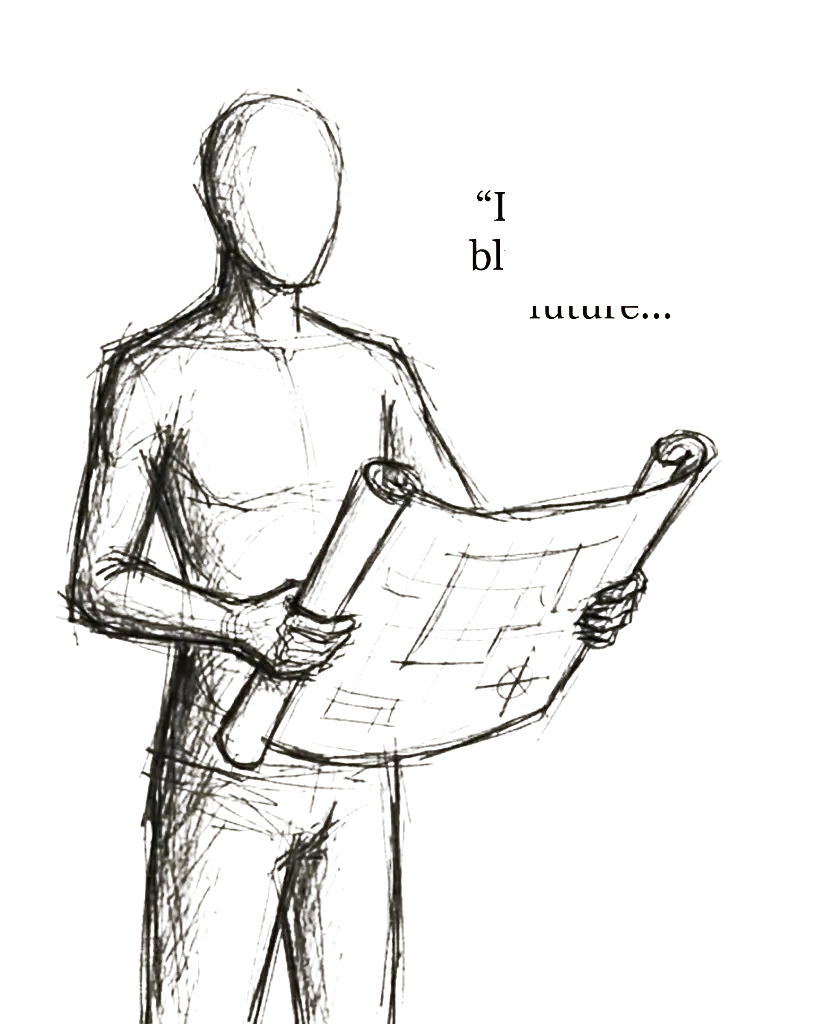
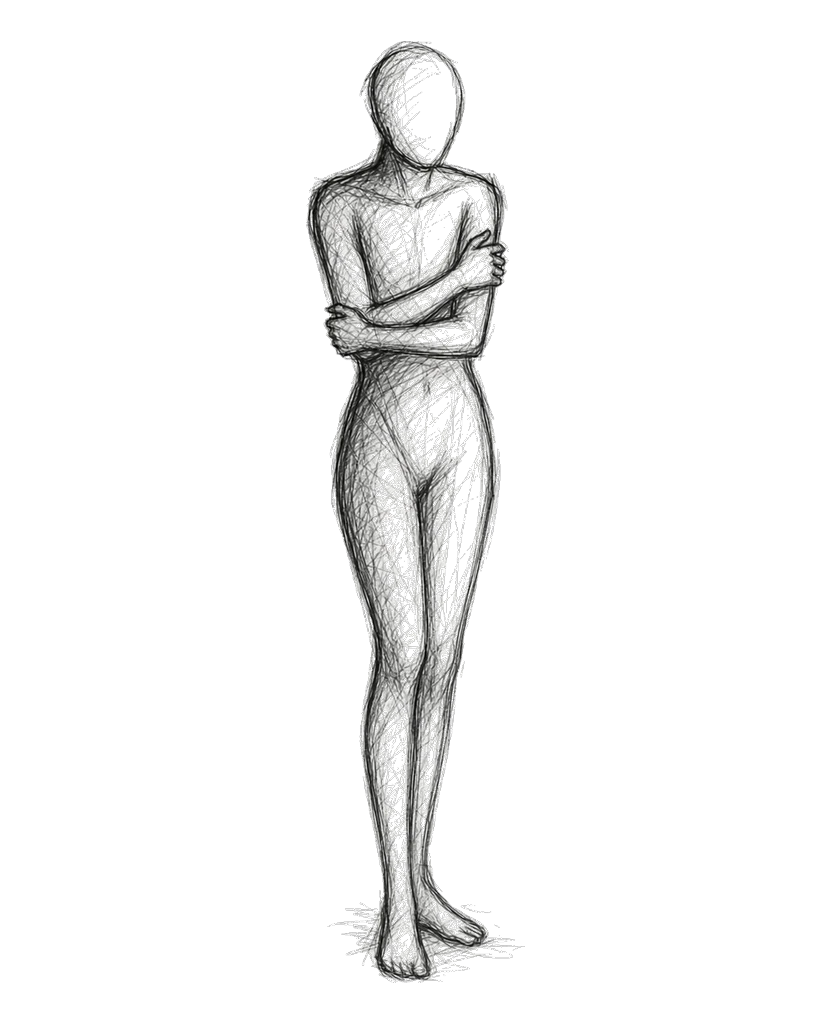
Couples post-pair UX: what-happens-next card, fixed ISLE figure, Resend Couples Report button

Changed region(s): [[0.0625, 0.0312, 0.875, 1.0], [0.6562, 0.2812, 0.7812, 0.3125]]

diff --git a/index.html b/index.html
@@ -866,6 +866,97 @@ body.in-synthesis .topnav { display: none; }
     display: block;
   }
 }
+/* What-happens-next card on the couples synthesis page — makes it clear
+   that the deeper Counselor walkthrough PDF is on its way by email. */
+.synthesis-overview-label {
+  font-size: 11px;
+  letter-spacing: 0.18em;
+  text-transform: uppercase;
+  color: var(--muted);
+  font-weight: 600;
+  margin-bottom: 10px;
+  text-align: center;
+}
+.synthesis-overview-cards {
+  display: flex;
+  gap: 20px;
+  flex-wrap: wrap;
+  justify-content: center;
+}
+.synthesis-overview-note {
+  margin-top: 14px;
+  text-align: center;
+  font-size: 14px;
+  color: var(--muted);
+  max-width: 640px;
+  margin-left: auto;
+  margin-right: auto;
+  line-height: 1.55;
+}
+.next-steps-card {
+  background: var(--paper);
+  border: 1px solid var(--accent);
+  border-radius: 10px;
+  padding: 28px 28px;
+  margin: 36px auto 28px;
+  max-width: 880px;
+}
+.next-steps-eyebrow {
+  font-size: 11px;
+  letter-spacing: 0.22em;
+  text-transform: uppercase;
+  color: var(--accent);
+  font-weight: 600;
+  margin-bottom: 6px;
+}
+.next-steps-title {
+  font-family: 'Fraunces', Georgia, serif;
+  font-size: 26px;
+  font-weight: 500;
+  margin: 0 0 12px 0;
+  line-height: 1.15;
+}
+.next-steps-lead {
+  font-size: 16px;
+  line-height: 1.55;
+  margin: 0 0 22px 0;
+}
+.next-steps-grid {
+  display: grid;
+  grid-template-columns: repeat(auto-fit, minmax(220px, 1fr));
+  gap: 18px;
+}
+.next-steps-item {
+  background: #ffffff;
+  border: 1px solid var(--rule);
+  border-radius: 6px;
+  padding: 16px 18px;
+}
+.next-steps-item-eyebrow {
+  font-size: 10px;
+  letter-spacing: 0.2em;
+  text-transform: uppercase;
+  color: var(--accent);
+  font-weight: 600;
+  margin-bottom: 6px;
+}
+.next-steps-item p {
+  font-size: 13.5px;
+  line-height: 1.55;
+  margin: 0;
+}
+.next-steps-footer {
+  margin: 40px auto 20px;
+  max-width: 880px;
+  padding: 18px 22px;
+  background: var(--highlight, #ece4d3);
+  border-left: 3px solid var(--accent);
+  font-size: 14px;
+  line-height: 1.55;
+}
+.next-steps-footer a { color: var(--accent); }
+.next-steps-footer strong { color: var(--accent); }
+
 .figure-inline-sm {
   float: right;
   width: 110px;
@@ -1279,7 +1370,7 @@ body.in-synthesis .topnav { display: none; }
       <li><a href="how-it-works.html">How It Works</a></li>
       <li><a href="imago/" class="hide-mobile">IMAGO</a></li>
       <li><a href="for-churches.html">For Churches</a></li>
-      <li><a href="sign-in.html" class="cta" id="navSignIn">Sign In</a></li>
+      <li><a href="sign-in.html" class="cta">Sign In</a></li>
     </ul>
   </div>
 </nav>
@@ -4088,9 +4179,6 @@ function showResults() {
         <input type="email" class="email-input" id="emailInput" placeholder="[email redacted]" autocomplete="email">
         <button class="btn btn-primary" onclick="submitResultsToBackend()" id="emailSendBtn">Email My Report</button>
       </div>
-      <div id="emailResendWrap" style="display:none;text-align:center;margin-top:0.75rem;font-size:0.85rem;">
-        <a href="#" onclick="resendToDifferentEmail(event)" style="color:var(--muted);text-decoration:underline;cursor:pointer;">Send a copy to a different email address</a>
-      </div>
       <div class="email-status" id="emailStatus"></div>
     </div>
 
@@ -4351,15 +4439,6 @@ async function submitResultsToBackend(opts = {}) {
         statusEl.className = 'email-status ok';
       }
     }
-    // Prevent accidental duplicate sends. The button locks to "Sent ✓" until
-    // the user explicitly opts into sending to a different address.
-    if (!silent && btn) {
-      btn.disabled = true;
-      btn.textContent = `Sent ✓ to ${email}`;
-      btn.dataset.locked = 'true';
-      const resendWrap = document.getElementById('emailResendWrap');
-      if (resendWrap) resendWrap.style.display = 'block';
-    }
   } catch (err) {
     if (!silent && statusEl) {
       // Show the backend's actual message when available so users get useful info
@@ -4372,40 +4451,8 @@ async function submitResultsToBackend(opts = {}) {
     }
     console.error('submit error', err);
   } finally {
-    // Only re-enable the button if we did NOT just successfully send — the
-    // success path locks the button itself with "Sent ✓" so users don't fire
-    // a second send by accident. Errors still reset to allow retry.
-    if (!silent && btn && btn.dataset.locked !== 'true') {
-      btn.disabled = false;
-      btn.textContent = 'Email My Report';
-    }
+    if (!silent && btn) { btn.disabled = false; btn.textContent = 'Email My Report'; }
   }
-}
-
-// Allow user to opt into a second send to a different address.
-// Shows a soft confirm so accidental clicks don't fire another email.
-function resendToDifferentEmail(ev) {
-  if (ev && ev.preventDefault) ev.preventDefault();
-  const btn = document.getElementById('emailSendBtn');
-  const emailInput = document.getElementById('emailInput');
-  const statusEl = document.getElementById('emailStatus');
-  const ok = window.confirm('Send your report to a different email address?\n\nClear the email field and type the new address, then click "Email My Report".');
-  if (!ok) return;
-  if (emailInput) {
-    emailInput.value = '';
-    emailInput.focus();
-  }
-  if (statusEl) {
-    statusEl.textContent = '';
-    statusEl.className = 'email-status';
-  }
-  if (btn) {
-    btn.disabled = false;
-    btn.textContent = 'Email My Report';
-    btn.dataset.locked = 'false';
-  }
-  const resendWrap = document.getElementById('emailResendWrap');
-  if (resendWrap) resendWrap.style.display = 'none';
 }
 
 function startOver() {
@@ -5123,37 +5170,6 @@ function startOver() {
   window.scrollTo({top: 0, behavior: 'instant'});
 }
 
-</script>
-<script>
-// ==================== SIGN-IN STATUS INDICATOR ====================
-// If the user has a saved session token, swap the "Sign In" nav link
-// for a "Your dashboard" link. Validation happens on /auth/me; if the
-// stored token is bad we silently clear it and keep the Sign In link.
-(function() {
-  var navEl = document.getElementById('navSignIn');
-  if (!navEl) return;
-  var token = localStorage.getItem('t139_session_token') || sessionStorage.getItem('t139_session_token') || '';
-  if (!token) return;
-  // Optimistically swap; verification is a low-priority background call.
-  var email = localStorage.getItem('t139_session_email') || sessionStorage.getItem('t139_session_email') || '';
-  navEl.textContent = email ? 'My dashboard' : 'My dashboard';
-  navEl.href = '/dashboard.html';
-  // Verify in the background — if the session is dead, restore the Sign In link.
-  try {
-    fetch('https://take139-backend-production.up.railway.app/auth/me', {
-      headers: { 'X-Session-Token': token },
-    }).then(function(r) {
-      if (r.status === 401) {
-        localStorage.removeItem('t139_session_token');
-        localStorage.removeItem('t139_session_email');
-        sessionStorage.removeItem('t139_session_token');
-        sessionStorage.removeItem('t139_session_email');
-        navEl.textContent = 'Sign In';
-        navEl.href = '/sign-in.html';
-      }
-    }).catch(function() { /* offline — keep optimistic state */ });
-  } catch(_) {}
-})();
 </script>
 </body>
 </html>

diff --git a/dashboard.html b/dashboard.html
@@ -490,7 +490,12 @@ function renderDashboard(data) {
     partnerLine.innerHTML =
       '<span class="partner-state connected">CONNECTED</span> ' +
       'Paired with <strong style="font-family:\'Courier New\',monospace;letter-spacing:0.08em;">' +
-      primary.paired_with_code + '</strong>. Your Couples Report has been sent.';
+      primary.paired_with_code + '</strong>. Your Couples Report is in both inboxes.' +
+      '<div style="margin-top:0.6rem;font-size:0.85rem;">' +
+        '<a href="#" onclick="resendCouplesReport(event)" style="color:var(--accent);text-decoration:underline;">' +
+          'Didn\u2019t get the email? Resend Couples Report' +
+        '</a>' +
+      '</div>';
     connectBtn.style.display = 'none';
     // Show the couples PDF download.
     if (dlCouples) dlCouples.style.display = 'inline-block';
@@ -709,6 +714,45 @@ async function suggestAccessCode(primary) {
   } catch (_) { /* no-op */ }
 }
 
+// Resend the Couples Walkthrough email to both partners. Used when the
+// original auto-send from /pair/connect failed silently (the bug we fixed
+// 2026-05-27). Backend rate-limits this to once per minute per user.
+async function resendCouplesReport(ev) {
+  if (ev && ev.preventDefault) ev.preventDefault();
+  const link = ev && ev.target;
+  if (!confirm('Resend the Couples Report email to both you and your partner?')) return;
+  if (link) { link.textContent = 'Sending\u2026'; link.style.pointerEvents = 'none'; link.style.opacity = '0.65'; }
+  try {
+    const res = await fetch(BACKEND_URL + '/pair/resend-couples', {
+      method: 'POST',
+      headers: {'Content-Type':'application/json', 'X-Session-Token': getSessionToken()},
+      body: JSON.stringify({}),
+    });
+    if (!res.ok) {
+      let msg = 'Could not resend right now. Please try again in a minute.';
+      try { const d = await res.json(); if (d && d.detail) msg = d.detail; } catch(_){}
+      alert(msg);
+      if (link) { link.textContent = 'Didn\u2019t get the email? Resend Couples Report'; link.style.pointerEvents = ''; link.style.opacity = ''; }
+      return;
+    }
+    const data = await res.json();
+    const es = (data && data.email_status) || {};
+    // Build a clear summary so the user knows whether each address received it.
+    const lines = [];
+    if (es.me) {
+      lines.push((es.me.sent ? '\u2713 Sent to ' : '\u26a0 Could not send to ') + (es.me.email || 'your email') + (es.me.sent ? '' : ' \u2014 ' + (es.me.reason || 'unknown error')));
+    }
+    if (es.partner) {
+      lines.push((es.partner.sent ? '\u2713 Sent to ' : '\u26a0 Could not send to ') + (es.partner.email || 'your partner') + (es.partner.sent ? '' : ' \u2014 ' + (es.partner.reason || 'unknown error')));
+    }
+    alert('Couples Report resend status:\n\n' + (lines.join('\n') || 'Sent.'));
+    if (link) { link.textContent = 'Resent \u2713'; }
+  } catch (e) {
+    alert('We couldn\u2019t reach the server. Please try again shortly.');
+    if (link) { link.textContent = 'Didn\u2019t get the email? Resend Couples Report'; link.style.pointerEvents = ''; link.style.opacity = ''; }
+  }
+}
+
 async function submitPairConnect() {
   const myPairCode = (currentUser && currentUser.submissions && currentUser.submissions[0])
     ? currentUser.submissions[0].pair_code
@@ -761,11 +805,28 @@ async function submitPairConnect() {
       btn.textContent = 'Connect';
       return;
     }
-    statusEl.textContent = 'Connected \u2713 Your Couples Report is being prepared and will arrive by email shortly.';
+    // Surface precise email_status so the user knows whether the report
+    // actually went out (avoids the silent-failure that bit us on May 27).
+    const data = await res.json().catch(function(){ return {}; });
+    const es = (data && data.email_status) || {};
+    let msg = 'Connected \u2713';
+    if (es.me && es.partner) {
+      if (es.me.sent && es.partner.sent) {
+        msg += ' Couples Report emailed to both inboxes.';
+      } else if (es.me.sent || es.partner.sent) {
+        msg += ' Couples Report sent to ' + (es.me.sent ? (es.me.email || 'you') : (es.partner.email || 'your partner')) +
+               '. The other delivery had an issue \u2014 you can resend from the dashboard.';
+      } else {
+        msg += ' Profiles are paired, but the email send hit a snag. Use the Resend button on the dashboard.';
+      }
+    } else {
+      msg += ' Couples Report is being prepared and will arrive by email shortly.';
+    }
+    statusEl.textContent = msg;
     statusEl.style.color = 'var(--accent)';
     btn.textContent = 'Connected \u2713';
     // Reload the dashboard so the partner card + couples PDF button appear.
-    setTimeout(function() { window.location.reload(); }, 1400);
+    setTimeout(function() { window.location.reload(); }, 1800);
   } catch (err) {
     statusEl.textContent = 'We could not reach the server. Please try again in a moment.';
     statusEl.style.color = '#a13544';